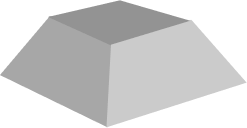
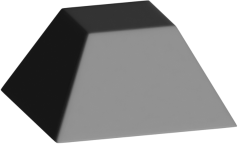
🎨  Use Marlene's pyramid

diff --git a/src/components/sections/Pyramid.svelte b/src/components/sections/Pyramid.svelte
@@ -1,35 +1,32 @@
 <script lang="ts">
-	import _ from "src/i18n"
 	import { fly } from "svelte/transition"
 	import ArrowDownCircleOutline from "icons/ArrowDownCircleOutline.svelte"
 	import { onDestroy, onMount } from "svelte"
+	import { _, json } from "svelte-i18n"
 
 	const pyramidBlocks = [
-		{ width: 474, height: 211, position: [0, 0] },
-		{ width: 363, height: 169, position: [53, 89] },
-		{ width: 247, height: 128, position: [110, 176] },
-		{ width: 130, height: 100, position: [165, 260] },
+		{ width: 480, height: 213, position: [0, 0] },
+		{ width: 361, height: 181, position: [59, 105] },
+		{ width: 238, height: 144, position: [121, 216] },
+		{ width: 114, height: 101, position: [183, 325] },
 	]
 	const transitionDuration = 700
-	const throttle = 450
-	const stageCount = pyramidBlocks.length - 1
+	const throttle = 520
+	const stageCount = 5
+	const basePyramidGap = 30
+	const noGapStage = pyramidBlocks.length
+	const fusionStage = pyramidBlocks.length + 1
 
 	let touchStart = 0
 	let currentStage = 0
 	let lastScrollDown = 0
-	let lastScrollTop = 0
+	let lastScrollUp = 0
 	let section!: HTMLElement
-	let pyramidGap = 30
+	let pyramidGap = basePyramidGap
 	let animationIsDone = false
 
-	$: console.log("currentStage", currentStage)
-
-	function canScrollTop(): boolean {
-		return document.documentElement.scrollTop != 0 && lastScrollTop + throttle < Date.now()
-	}
-
 	function onWheel(event: WheelEvent) {
-		return (event.deltaY > 0 ? onScrollDown : onScrollTop)(event, event.deltaY)
+		return (event.deltaY > 0 ? onScrollDown : onScrollUp)(event, event.deltaY)
 	}
 
 	function onKeydown(event: KeyboardEvent) {
@@ -37,12 +34,16 @@
 			case "ArrowDown":
 				return onScrollDown(event)
 			case "ArrowUp":
-				return onScrollTop(event)
+				return onScrollUp(event)
 		}
 	}
 
 	function onScrollDown(event: Event, delta = 4) {
-		if (animationIsDone) return
+		if (document.documentElement.scrollTop > 0) return
+		if (animationIsDone) {
+			lastScrollUp = Date.now()
+			return
+		}
 		event.preventDefault()
 		if (currentStage == stageCount) return
 		if (delta < 4) return
@@ -51,6 +52,7 @@
 		}
 		lastScrollDown = Date.now()
 		currentStage++
+		if (currentStage >= noGapStage) pyramidGap = 0
 		if (currentStage == stageCount) {
 			setTimeout(() => {
 				if (currentStage == stageCount) animationIsDone = true
@@ -58,16 +60,21 @@
 		}
 	}
 
-	function onScrollTop(event: Event, delta = -4) {
-		if (canScrollTop()) return
+	function onScrollUp(event: Event, delta = -4) {
+		if (document.documentElement.scrollTop > 0) {
+			lastScrollUp = Date.now()
+			return
+		}
+		event.preventDefault()
 		if (currentStage == 0) return
 		if (delta > -4) return
-		if (lastScrollTop + throttle > Date.now()) {
+		if (lastScrollUp + throttle > Date.now()) {
 			return
 		}
 		animationIsDone = false
-		lastScrollTop = Date.now()
+		lastScrollUp = Date.now()
 		currentStage--
+		if (currentStage < noGapStage) pyramidGap = basePyramidGap
 	}
 
 	function onTouchStart(event: TouchEvent) {
@@ -76,7 +83,7 @@
 
 	function onTouchMove(event: TouchEvent) {
 		const delta = touchStart - event.changedTouches[0].clientY
-		return (delta > 0 ? onScrollDown : onScrollTop)(event, delta)
+		return (delta > 0 ? onScrollDown : onScrollUp)(event, delta)
 	}
 
 	onMount(() => {
@@ -90,12 +97,16 @@
 <section id="ecosystem" class="row" bind:this={section}>
 	<main>
 		<div class="title bold">{$_("section.pyramid.title")}</div>
-		<p>{$_("section.pyramid.description")}</p>
+		{#each $json("section.pyramid.description") as description, index}
+			{#if index == currentStage}
+				<p>{description}</p>
+			{/if}
+		{/each}
 	</main>
 
 	<aside>
 		<!-- <img class="pyramid" src="/images/pyramid.png" alt="pyramid" /> -->
-		<div class="pyramid">
+		<div class="pyramid" class:fusion={currentStage == fusionStage}>
 			{#each pyramidBlocks as { width, height, position: [left, bottom] }, index}
 				{#if index <= currentStage}
 					<img
@@ -128,6 +139,8 @@
 	main
 		gap: 4rem
 		width: 35%
+		height: 240px
+		overflow: visible
 
 		> .title
 			font-size: 9rem
@@ -137,14 +150,21 @@
 
 	aside
 		width: 474px
-	
+		transform: scale(0.9)
+		transition: filter 0.6s
+
 	.pyramid
 		flex-direction: column-reverse
 		position: relative
 		height: 110rem
 		width: auto
+		transition: filter 0.6s
 
+		&.fusion
+			filter: contrast(0.1) brightness(1.66) grayscale(1)
+	
 		> img
+			transition: bottom 0.6s
 			position: absolute
 			left: 0
 
@@ -153,7 +173,7 @@
 
 	.next
 		position: absolute
-		bottom: 8rem
+		bottom: 3%
 		width: auto
 		opacity: 0.9
 	
@@ -169,9 +189,9 @@
 
 	@media (max-width: 510px)
 		aside
-			transform: scale(0.8)
+			transform: scale(0.72)
 
 	@media (max-width: 390px)
 		aside
-			transform: scale(0.7)
+			transform: scale(0.58)
 </style>
